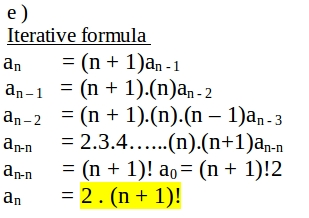
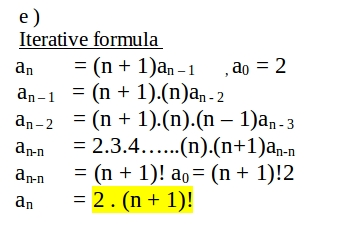
Solution for problem e

diff --git a/Chapter_2_Basic_Structures/2.4_Sequences_and_Summations/Exercises/repo/solution_16_e.cpp b/Chapter_2_Basic_Structures/2.4_Sequences_and_Summations/Exercises/repo/solution_16_e.cpp
@@ -1,0 +1,48 @@
+/*
+  C++ solution for Problem 16 e.
+  Iterative solution and recursive solution.
+  Need to check the sequence is correct or not, it must be matching.
+  Discrete Mathematics and its Applications
+  Author: Rakesh Kumar @ cpp.rakesh@gmail.com
+  Date: Jan 3rd, 2017
+*/
+
+#include <cstdio>
+#include <cmath>
+
+int factorial(int n) {
+    if (n <= 1)
+        return 1;
+    else
+        return n * factorial(n - 1);
+}
+
+int recursive_16_e(int n) {
+    if (n == 0)
+        return 2;
+    else
+        return (n + 1) * recursive_16_e(n - 1);
+}
+
+int iterative_16_e(int n) {
+    return 2 * factorial(n + 1);
+}
+
+void test_recursive() {
+    for (int n = 0; n <= 10; ++n)
+        printf("%d ", recursive_16_e(n));
+    printf("\n");
+}
+
+void test_iterative() {
+    for (int n = 0; n <= 10; ++n)
+        printf("%d ", iterative_16_e(n));
+    printf("\n");
+}
+
+int main() {
+    test_recursive();
+    test_iterative();
+    
+    return 0;
+}

diff --git a/Chapter_2_Basic_Structures/2.4_Sequences_and_Summations/Exercises/Solutions.md b/Chapter_2_Basic_Structures/2.4_Sequences_and_Summations/Exercises/Solutions.md
@@ -109,4 +109,5 @@
 ![Iterative e](https://github.com/cpp-rakesh/DiscreteMathematicsAndItsApplications/blob/master/Chapter_2_Basic_Structures/2.4_Sequences_and_Summations/Exercises/repo/solution_16_e.jpg)
 
 #### Sequence
--1 -5 -13 -29 -61 -125 -253 -509 -1021 -2045 -4093 -8189 -16381 -32765 -65533 -131069 -262141 -524285 -1048573 -2097149 -4194301 ...
+2 4 12 48 240 1440 10080 80640 725760 7257600 79833600 ...
+
